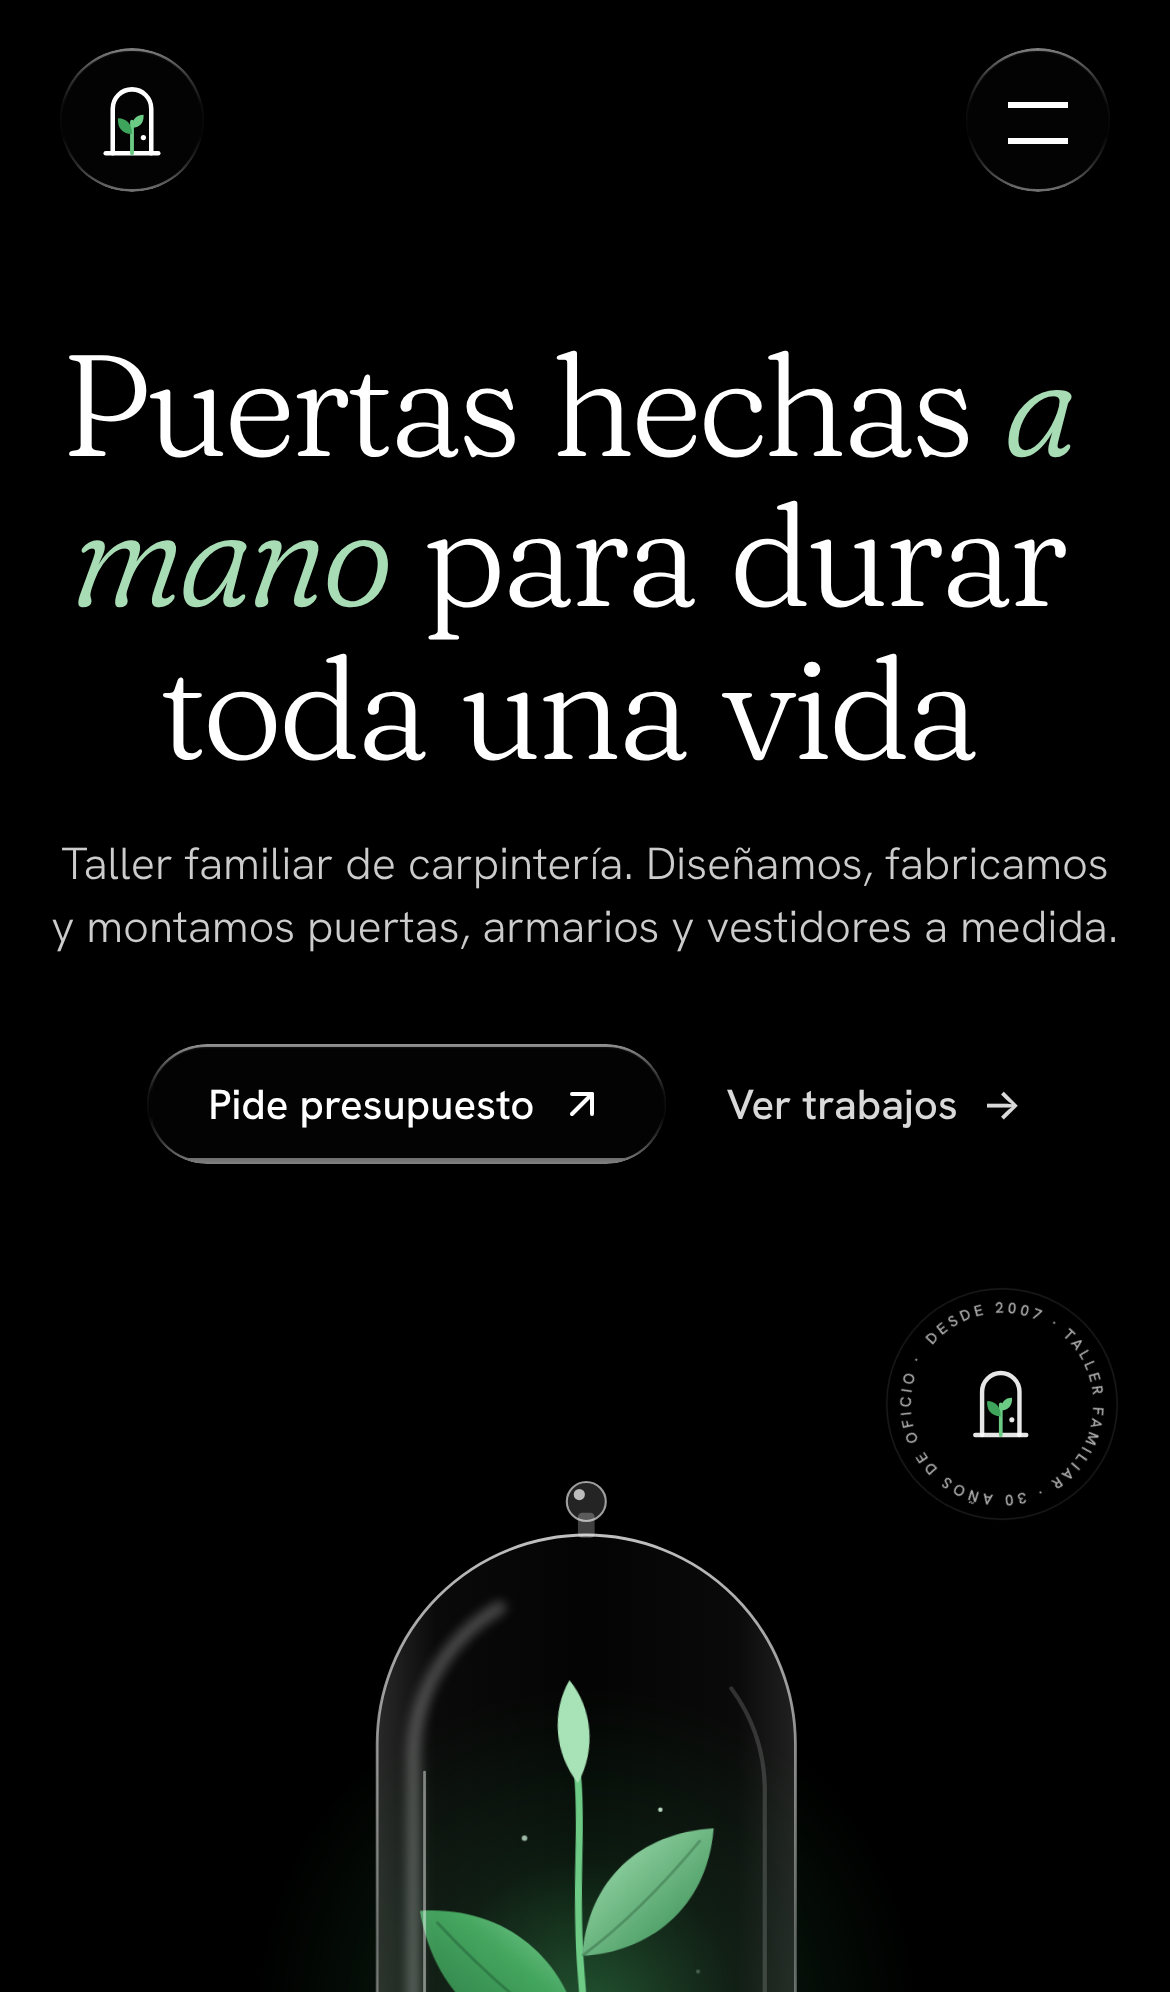
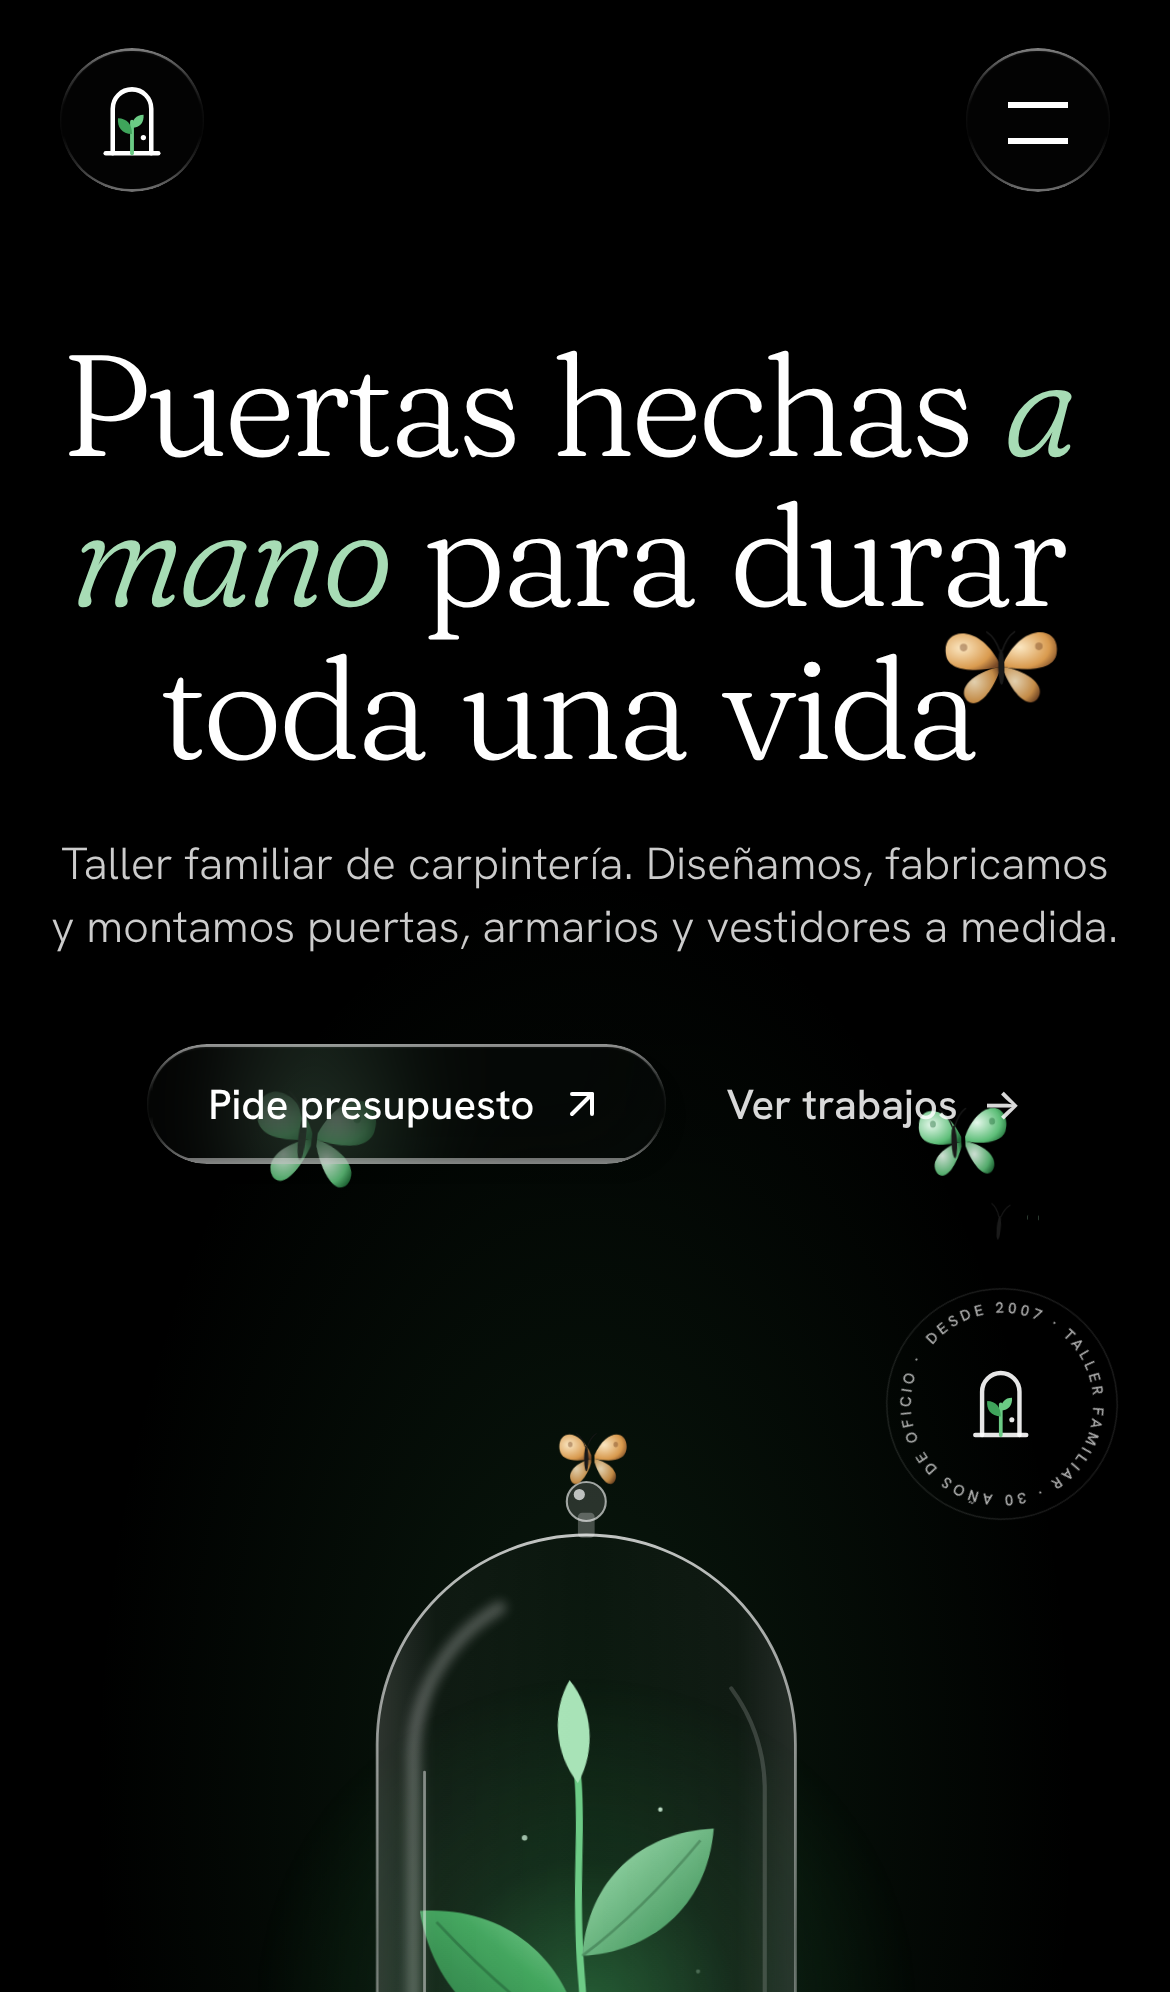
Mariposas animadas propias en la portada (sin vídeo)
- Se quita el vídeo (paisaje + mariposas) y se sustituye por mariposas en
  SVG que vuelan, baten las alas y una se posa sobre la cúpula
- Solo se anima transform: 60 fps estables

Claude-Session: https://claude.ai/code/session_01Ao6RVKmp1vd2jwvCaJLrqn

diff --git a/src/components/Butterflies.tsx b/src/components/Butterflies.tsx
@@ -1,0 +1,99 @@
+import type { CSSProperties } from 'react'
+
+/**
+ * Mariposas animadas en SVG + CSS (sin vídeo).
+ * Cada una vuela por una ruta propia (variables CSS --x0..--y4) mientras bate las alas.
+ * Solo se anima transform, así que es muy ligero.
+ */
+
+type Palette = { a: string; b: string; edge: string }
+
+const PALETTES: Record<string, Palette> = {
+  verde: { a: '#E4F7EA', b: '#5DBE78', edge: '#1F6B37' },
+  ambar: { a: '#FBE7C2', b: '#D99A4E', edge: '#7A4A26' },
+  blanca: { a: '#FFFFFF', b: '#B9D9C4', edge: '#5E7F69' },
+}
+
+export function ButterflyShape({ palette = 'verde', flap = 0.32 }: { palette?: keyof typeof PALETTES; flap?: number }) {
+  const p = PALETTES[palette]
+  const id = `bf-${palette}`
+  return (
+    <svg viewBox="-50 -40 100 80" className="h-full w-full overflow-visible" aria-hidden="true">
+      <defs>
+        <radialGradient id={id} cx="30%" cy="40%" r="80%">
+          <stop offset="0%" stopColor={p.a} />
+          <stop offset="70%" stopColor={p.b} />
+          <stop offset="100%" stopColor={p.edge} />
+        </radialGradient>
+      </defs>
+      {/* ala izquierda */}
+      <g className="bf-wing bf-wing-l" style={{ animationDuration: `${flap}s` }}>
+        <path d="M-2 -2 C-18 -34 -48 -30 -44 -8 C-42 4 -24 6 -2 2 Z" fill={`url(#${id})`} />
+        <path d="M-2 2 C-22 6 -36 18 -28 28 C-20 36 -8 22 -2 6 Z" fill={`url(#${id})`} opacity="0.9" />
+        <circle cx="-30" cy="-14" r="3" fill={p.edge} opacity="0.45" />
+      </g>
+      {/* ala derecha */}
+      <g className="bf-wing bf-wing-r" style={{ animationDuration: `${flap}s` }}>
+        <path d="M2 -2 C18 -34 48 -30 44 -8 C42 4 24 6 2 2 Z" fill={`url(#${id})`} />
+        <path d="M2 2 C22 6 36 18 28 28 C20 36 8 22 2 6 Z" fill={`url(#${id})`} opacity="0.9" />
+        <circle cx="30" cy="-14" r="3" fill={p.edge} opacity="0.45" />
+      </g>
+      {/* cuerpo y antenas */}
+      <ellipse cx="0" cy="2" rx="2.4" ry="14" fill="#1a1a1a" />
+      <path d="M-1 -11 C-4 -20 -8 -24 -11 -26 M1 -11 C4 -20 8 -24 11 -26" stroke="#1a1a1a" strokeWidth="1.2" fill="none" strokeLinecap="round" />
+    </svg>
+  )
+}
+
+type Flight = {
+  palette: keyof typeof PALETTES
+  size: number // px
+  duration: number // s
+  delay: number // s
+  path: [number, number][] // 5 puntos en vw/vh
+  mobile?: boolean
+}
+
+// Rutas pensadas para rodear el titular y la cúpula sin taparlos demasiado
+const FLIGHTS: Flight[] = [
+  { palette: 'verde', size: 53, duration: 26, delay: 0, mobile: true, path: [[8, 70], [22, 48], [14, 28], [30, 18], [44, 34]] },
+  { palette: 'ambar', size: 42, duration: 31, delay: -8, mobile: true, path: [[88, 62], [72, 42], [84, 24], [66, 14], [58, 38]] },
+  { palette: 'blanca', size: 34, duration: 22, delay: -4, path: [[30, 86], [38, 66], [26, 54], [40, 40], [34, 72]] },
+  { palette: 'verde', size: 39, duration: 34, delay: -15, mobile: true, path: [[70, 88], [62, 70], [78, 58], [70, 40], [82, 30]] },
+  { palette: 'ambar', size: 31, duration: 28, delay: -20, path: [[12, 20], [24, 34], [10, 50], [20, 62], [6, 40]] },
+  { palette: 'blanca', size: 28, duration: 24, delay: -11, mobile: true, path: [[92, 22], [80, 36], [92, 50], [76, 64], [88, 80]] },
+  { palette: 'verde', size: 25, duration: 36, delay: -25, path: [[52, 12], [64, 24], [48, 30], [36, 20], [46, 8]] },
+]
+
+export default function Butterflies({ className = '' }: { className?: string }) {
+  return (
+    <div aria-hidden="true" className={`pointer-events-none absolute inset-0 overflow-hidden ${className}`}>
+      {FLIGHTS.map((f, i) => {
+        const vars: Record<string, string> = {}
+        f.path.forEach(([x, y], k) => {
+          vars[`--x${k}`] = `${x}vw`
+          vars[`--y${k}`] = `${y}vh`
+        })
+        return (
+          <div
+            key={i}
+            className={`bf-flight absolute left-0 top-0 ${f.mobile ? '' : 'hidden md:block'}`}
+            style={
+              {
+                ...vars,
+                width: f.size,
+                height: f.size,
+                animationDuration: `${f.duration}s`,
+                animationDelay: `${f.delay}s`,
+              } as CSSProperties
+            }
+          >
+            <div className="bf-bob h-full w-full" style={{ animationDelay: `${i * -0.7}s` }}>
+              <ButterflyShape palette={f.palette} flap={0.22 + (i % 3) * 0.06} />
+            </div>
+          </div>
+        )
+      })}
+    </div>
+  )
+}

diff --git a/src/index.css b/src/index.css
@@ -223,6 +223,53 @@ html {
   45%, 100% { transform: translateX(560px) skewX(-14deg); }
 }
 
+/* ---------- Mariposas ---------- */
+.bf-flight {
+  animation-name: bf-flight;
+  animation-timing-function: ease-in-out;
+  animation-iteration-count: infinite;
+  animation-direction: alternate;
+  will-change: transform;
+}
+@keyframes bf-flight {
+  0% { transform: translate3d(var(--x0), var(--y0), 0) rotate(-8deg); }
+  25% { transform: translate3d(var(--x1), var(--y1), 0) rotate(10deg); }
+  50% { transform: translate3d(var(--x2), var(--y2), 0) rotate(-6deg); }
+  75% { transform: translate3d(var(--x3), var(--y3), 0) rotate(12deg); }
+  100% { transform: translate3d(var(--x4), var(--y4), 0) rotate(-4deg); }
+}
+.bf-bob {
+  animation: bf-bob 1.6s ease-in-out infinite alternate;
+}
+@keyframes bf-bob {
+  from { transform: translateY(-4px); }
+  to { transform: translateY(4px); }
+}
+.bf-wing {
+  transform-box: view-box;
+  transform-origin: 50% 50%;
+  animation-name: bf-flap;
+  animation-timing-function: ease-in-out;
+  animation-iteration-count: infinite;
+  animation-direction: alternate;
+}
+@keyframes bf-flap {
+  from { transform: scaleX(1); }
+  to { transform: scaleX(0.18); }
+}
+/* mariposa posada: aletea despacio y a ratos */
+.bf-rest .bf-wing {
+  animation-name: bf-rest;
+  animation-duration: 4s !important;
+  animation-direction: normal;
+}
+@keyframes bf-rest {
+  0%, 70%, 100% { transform: scaleX(0.85); }
+  78% { transform: scaleX(0.25); }
+  86% { transform: scaleX(0.9); }
+  92% { transform: scaleX(0.3); }
+}
+
 /* ---------- Sello giratorio ---------- */
 .seal-spin {
   animation: seal-spin 40s linear infinite;
@@ -282,6 +329,9 @@ html {
   .pollen circle,
   .seal-spin,
   .glass-shine,
+  .bf-flight,
+  .bf-bob,
+  .bf-wing,
   .scroll-cue {
     animation: none;
   }

diff --git a/src/components/Hero.tsx b/src/components/Hero.tsx
@@ -1,10 +1,9 @@
 import { motion } from 'framer-motion'
 import BlurText from './BlurText'
-import FadingVideo from './FadingVideo'
+import Butterflies from './Butterflies'
 import HeroPlant from './HeroPlant'
 import Seal from './Seal'
 import { ArrowUpRight } from './Icons'
-import { HERO_VIDEO } from '../data'
 
 const fadeUp = {
   initial: { filter: 'blur(10px)', opacity: 0, y: 20 },
@@ -15,12 +14,12 @@ const t = (delay: number) => ({ duration: 0.9, ease: [0.22, 1, 0.36, 1] as const
 export default function Hero() {
   return (
     <section id="inicio" className="relative min-h-[100svh] md:h-[100svh] md:min-h-[680px] overflow-hidden bg-black">
-      {/* Fondo: vídeo de las mariposas */}
-      <FadingVideo src={HERO_VIDEO} className="absolute inset-0 z-0 h-full w-full object-cover" />
+      {/* Fondo: luz suave + mariposas animadas */}
       <div
         aria-hidden="true"
-        className="pointer-events-none absolute inset-0 z-0 bg-[radial-gradient(ellipse_at_50%_70%,rgba(0,0,0,0.15)_0%,rgba(0,0,0,0.55)_60%,rgba(0,0,0,0.9)_100%)]"
+        className="pointer-events-none absolute inset-0 z-0 bg-[radial-gradient(ellipse_60%_55%_at_50%_75%,rgba(63,164,91,0.16)_0%,rgba(0,0,0,0)_70%)]"
       />
+      <Butterflies className="z-[1]" />
 
       <div
         aria-hidden="true"

diff --git a/src/components/HeroPlant.tsx b/src/components/HeroPlant.tsx
@@ -1,4 +1,5 @@
 import { motion } from 'framer-motion'
+import { ButterflyShape } from './Butterflies'
 
 /**
  * El logotipo a gran escala: una cúpula de cristal sobre una peana de madera
@@ -241,6 +242,13 @@ export default function HeroPlant({ className = '' }: { className?: string }) {
         <rect x="294" y="164" width="12" height="18" rx="3" fill="#ffffff" fillOpacity="0.25" />
         <circle cx="300" cy="156" r="14" fill="#ffffff" fillOpacity="0.14" stroke="#ffffff" strokeOpacity="0.6" strokeWidth="1.5" />
         <circle cx="295" cy="151" r="4" fill="#ffffff" fillOpacity="0.7" />
+      </motion.g>
+
+      {/* mariposa posada sobre la cúpula */}
+      <motion.g initial={{ opacity: 0, y: -30 }} animate={{ opacity: 1, y: 0 }} transition={{ duration: 1.6, ease, delay: 3 }}>
+        <foreignObject x="268" y="98" width="64" height="52" className="bf-rest">
+          <ButterflyShape palette="ambar" />
+        </foreignObject>
       </motion.g>
     </svg>
   )

diff --git a/src/data.ts b/src/data.ts
@@ -19,10 +19,6 @@ export const PHOTOS = {
   entradaSapelli: { src: '/img/puerta-entrada-sapelli.webp', alt: 'Puerta de entrada en sapelli con cuarterones, pomo central y cerradura de seguridad dorada' },
 } satisfies Record<string, Photo>
 
-// ---------- Fondo de la portada (vídeo de las mariposas) ----------
-export const HERO_VIDEO =
-  'https://d8j0ntlcm91z4.cloudfront.net/user_38xzZboKViGWJOttwIXH07lWA1P/hf_20260622_093722_ccfc7ebf-182f-419f-8a62-2dc02db7dd9d.mp4'
-
 // ---------- Taller ----------
 export const ADDRESS = {
   street: 'Calle Jorge Manrique',
